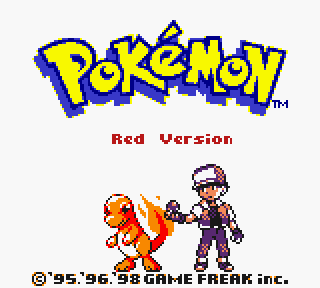
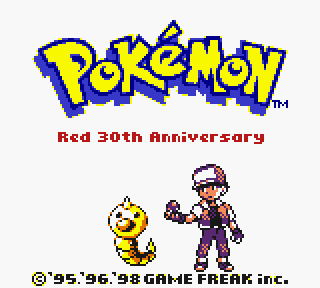
PK30 title screen: Red 30th Anniversary
The hack is now Pokemon Red 30th Anniversary (PK30). Under the logo,
"Red Version" becomes "Red 30th Anniversary" (Blue and Green in those
builds), drawn in the original title lettering by
tools/gen_title_text.py and centred under the logo. The Japanese-style
logo also loses Shin's SHIN and the kanji.

Claude-Session: https://claude.ai/code/session_013LfQ5QibCznGgf4ezQffZU

diff --git a/tools/gen_title_text.py b/tools/gen_title_text.py
@@ -1,0 +1,64 @@
+#!/usr/bin/env python3
+"""Draws the title screen's subtitle ("Red 30th Anniversary", and Blue and
+Green for those builds) as gfx/title_<version>.png, 1bpp tiles loaded at
+tile $60. The letters follow the original "Red Version" text: 2px strokes,
+capitals and digits 5 rows tall, lowercase 4. Each line is centred under
+the logo (screen pixel 80); this prints the tile column and tile count
+that PrintGameVersionOnTitleScreen uses.
+
+Usage: tools/gen_title_text.py <repo root>
+"""
+import sys
+from PIL import Image
+
+GLYPHS = {
+    'R': ["####.", "##.##", "####.", "##.##", "##.##"],
+    'B': ["####.", "##.##", "####.", "##.##", "####."],
+    'G': [".####", "##...", "##.##", "##.##", ".####"],
+    'A': [".###.", "##.##", "#####", "##.##", "##.##"],
+    '3': ["####.", "...##", ".###.", "...##", "####."],
+    '0': [".###.", "##.##", "##.##", "##.##", ".###."],
+    'a': [".....", ".####", "##.##", "##.##", ".####"],
+    'd': ["...##", ".####", "##.##", "##.##", ".####"],
+    'e': ["....", ".###", "##.#", "###.", ".###"],
+    'h': ["##...", "####.", "##.##", "##.##", "##.##"],
+    'i': ["##", "..", "##", "##", "##"],
+    'l': ["##", "##", "##", "##", "##"],
+    'n': ["....", "###.", "##.#", "##.#", "##.#"],
+    'r': ["....", "####", "##..", "##..", "##.."],
+    's': [".....", ".####", "###..", "..###", "####."],
+    't': [".##.", "####", ".##.", ".##.", "..##"],
+    'u': ["....", "##.#", "##.#", "##.#", ".###"],
+    'v': [".....", "##.##", "##.##", ".###.", "..#.."],
+    'y': [".....", "##.##", "##.##", ".####", "...##", "####."],  # descender
+    ' ': ["..", "..", "..", "..", ".."],
+}
+TOP = 2  # capitals on rows 2-6, the descender on row 7
+CENTRE = 80
+
+
+def width(text):
+    return sum(len(GLYPHS[c][0]) + 1 for c in text) - 1
+
+
+def render(text):
+    w = width(text)
+    left = CENTRE - w // 2
+    column, offset = divmod(left, 8)
+    tiles = (offset + w + 7) // 8
+    im = Image.new('1', (tiles * 8, 8), 1)
+    x = offset
+    for c in text:
+        for dy, row in enumerate(GLYPHS[c]):
+            for dx, p in enumerate(row):
+                if p == '#':
+                    im.putpixel((x + dx, TOP + dy), 0)
+        x += len(GLYPHS[c][0]) + 1
+    return im, column, tiles
+
+
+repo = sys.argv[1]
+for version in ("Red", "Blue", "Green"):
+    im, column, tiles = render(f"{version} 30th Anniversary")
+    im.save(f"{repo}/gfx/title_{version.lower()}.png")
+    print(f"{version}: column {column}, {tiles} tiles")

diff --git a/README.md b/README.md
@@ -1,6 +1,6 @@
-# Pokémon Red and Blue: a Gen 9 rules fork of Shin Pokémon
+# Pokémon Red 30th Anniversary (PK30)
 
-Version 0.5.0. A Game Boy hack of Pokémon Red and Blue built on [Shin Pokémon](https://github.com/jojobear13/shinpokered) (jojobear13), which is built on [pret's pokered disassembly](https://github.com/pret/pokered). It keeps the Game Boy look and feel and brings in Gen 9 battle rules, abilities, held items, breeding and later-generation conveniences.
+A Gen 9 rules fork of Shin Pokémon. Version 0.5.0. A Game Boy hack of Pokémon Red and Blue built on [Shin Pokémon](https://github.com/jojobear13/shinpokered) (jojobear13), which is built on [pret's pokered disassembly](https://github.com/pret/pokered). It keeps the Game Boy look and feel and brings in Gen 9 battle rules, abilities, held items, breeding and later-generation conveniences.
 
 - **Made with AI.** This fork's code, data and documentation were written with an AI coding assistant (Claude, by Anthropic), directed and reviewed by the project owner.
 - **Emulators and hardware.** The ROM works on [BGB](https://bgb.bircd.org/), a highly accurate emulator, so it should also run on real Game Boy / Game Boy Color hardware. Less accurate emulators may show Shin's "Emulator ERROR" warning on the title menu.
@@ -12,7 +12,7 @@ Build: see [INSTALL.md](INSTALL.md) (`make` builds Red, Blue, Green, Red-JP, Blu
 ## Screenshots
 
 <table>
-<tr><td align="center"><img src="screenshots/fork/title.png" width="240"><br><sub>Title (no "SHIN" logo)</sub></td><td align="center"><img src="screenshots/fork/options_game.png" width="240"><br><sub>OPTION: GAME</sub></td><td align="center"><img src="screenshots/fork/options_display.png" width="240"><br><sub>OPTION: DISPLAY</sub></td></tr>
+<tr><td align="center"><img src="screenshots/fork/title.png" width="240"><br><sub>Title: Red 30th Anniversary</sub></td><td align="center"><img src="screenshots/fork/options_game.png" width="240"><br><sub>OPTION: GAME</sub></td><td align="center"><img src="screenshots/fork/options_display.png" width="240"><br><sub>OPTION: DISPLAY</sub></td></tr>
 <tr><td align="center"><img src="screenshots/fork/options_challenge.png" width="240"><br><sub>OPTION: CHALLENGE</sub></td><td align="center"><img src="screenshots/fork/options_clauses.png" width="240"><br><sub>OPTION: CLAUSES</sub></td><td align="center"><img src="screenshots/fork/options_extras.png" width="240"><br><sub>OPTION: EXTRAS</sub></td></tr>
 <tr><td align="center"><img src="screenshots/fork/move_menu_marks.png" width="240"><br><sub>Category and effectiveness marks</sub></td><td align="center"><img src="screenshots/fork/move_menu_dark.png" width="240"><br><sub>Dark type</sub></td><td align="center"><img src="screenshots/fork/ability_intimidate.png" width="240"><br><sub>Abilities</sub></td></tr>
 <tr><td align="center"><img src="screenshots/fork/type_hint_learned_unknown.png" width="240"><br><sub>TYPE HINT: LEARNED, unseen</sub></td><td align="center"><img src="screenshots/fork/type_hint_learned_known.png" width="240"><br><sub>TYPE HINT: LEARNED, seen</sub></td><td align="center"><img src="screenshots/fork/status.png" width="240"><br><sub>Status: nature, held item</sub></td></tr>
@@ -122,7 +122,7 @@ Every option starts as the original game played; everything extra is off by defa
 - Rule options can be set from the title screen before NEW GAME.
 - TYPE HINT: OFF (default), ON, or LEARNED (only matchups seen in battle; "?" otherwise).
 - PC IN MENU: start menu PC item opens the full PC (hidden in link rooms).
-- Title logo drops "SHIN"; main menu shows version 0.5.0.
+- Title screen: "Red 30th Anniversary" (Blue and Green in those builds) under the logo, in the original "Red Version" lettering; the logo drops "SHIN" (and the Japanese-style logo "SHIN" and 真); main menu shows version 0.5.0.
 
 #### Breeding and day care
 - Day care holds two Pokémon; both gain experience.
@@ -433,7 +433,7 @@ Every option starts as the original game played; everything extra is off by defa
 - Nuzlocke death mark in catch rate ($05; Gen 2 Poké Ball) → an IV flag bit.
 - Catch-rate byte → held item.
 - Gameshark addresses → may not match: the box and day care moved to save RAM.
-- "SHIN" title logo and Shin link compatibility → v0.5.0 branding; won't link with Shin builds.
+- "SHIN" title logo and Shin link compatibility → PK30 title and v0.5.0 branding; won't link with Shin builds.
 
 ## Credits
 

diff --git a/docs/design_brief.md b/docs/design_brief.md
@@ -1592,8 +1592,9 @@ exist upstream are written up for Shin Pokémon in `docs/upstream_bug_reports.md
   outside battle) came 1-2 HP short: `PackIVs` clobbered `de`, so
   `AddPartyMon` worked out the current HP from the bytes after `wIVScratch`
   instead of the new IVs. `PackIVs` keeps `de` now. `tests/test_gift_mons.py`.
-- **Branding and version**: the title logo loses "SHIN" and 真 (the Japanese
-  logo never had them); the main menu shows v0.5.0, and the link handshake
+- **Branding and version**: the title logo loses "SHIN" and 真 (the
+  Japanese-style logo of the JP and Green builds kept them until the PK30
+  title screen); the main menu shows v0.5.0, and the link handshake
   digits are 0.0.5.0, so it won't link with Shin's builds.
 
 - **The bag screen**: Shin's SELECT-swapped second bag is gone (its WRAM
@@ -1978,3 +1979,19 @@ exist upstream are written up for Shin Pokémon in `docs/upstream_bug_reports.md
   `HandlePoisonBurnLeechSeed`'s faint path now draw only the HUD of the side
   whose turn it is (`DrawTurnSideHUD`).
 
+
+## PK30: the name and title screen
+
+The hack is named **Pokémon Red 30th Anniversary**, PK30 for short.
+
+- **Title screen**: "Red Version" under the logo becomes "Red 30th
+  Anniversary" ("Blue" and "Green" in those builds), in the version's color,
+  sliding in from the right as before. It is drawn in the original title
+  text's style (2px strokes, capitals 5 rows, lowercase 4) by
+  `tools/gen_title_text.py`, which writes `gfx/title_{red,blue,green}.png`
+  (14 tiles at `$60`, a free stretch of the title's VRAM) and centres each
+  under the logo (column 3). The old `redgreenversion` and `blueversion`
+  graphics are no longer used. The Japanese-style logo (`pokemon_logo_jp.png`)
+  also loses Shin's "SHIN" and 真. Checked in the emulator in the Red, Blue,
+  Green and Red-JP builds.
+- The ROM header title is still "POKEMON RED" etc.
